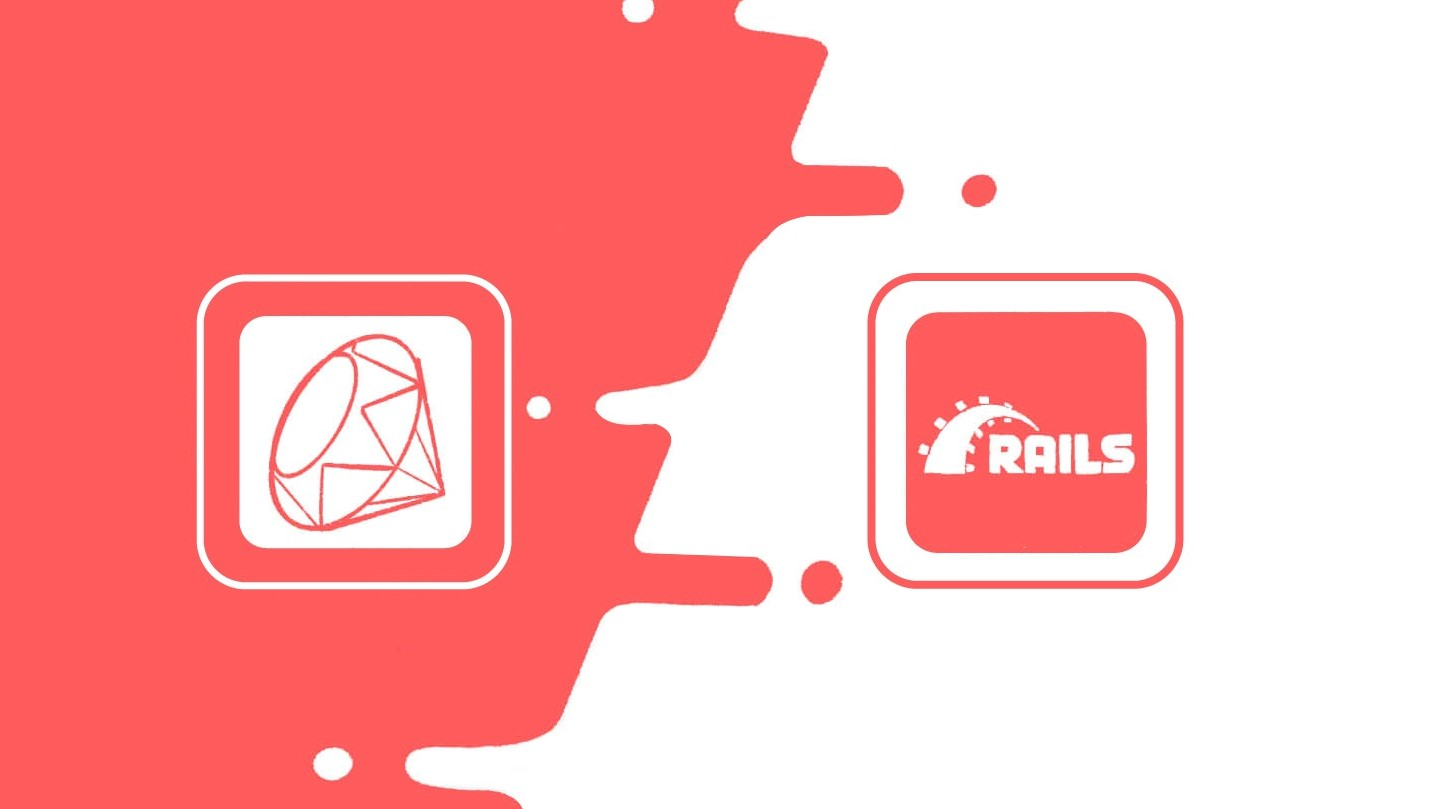
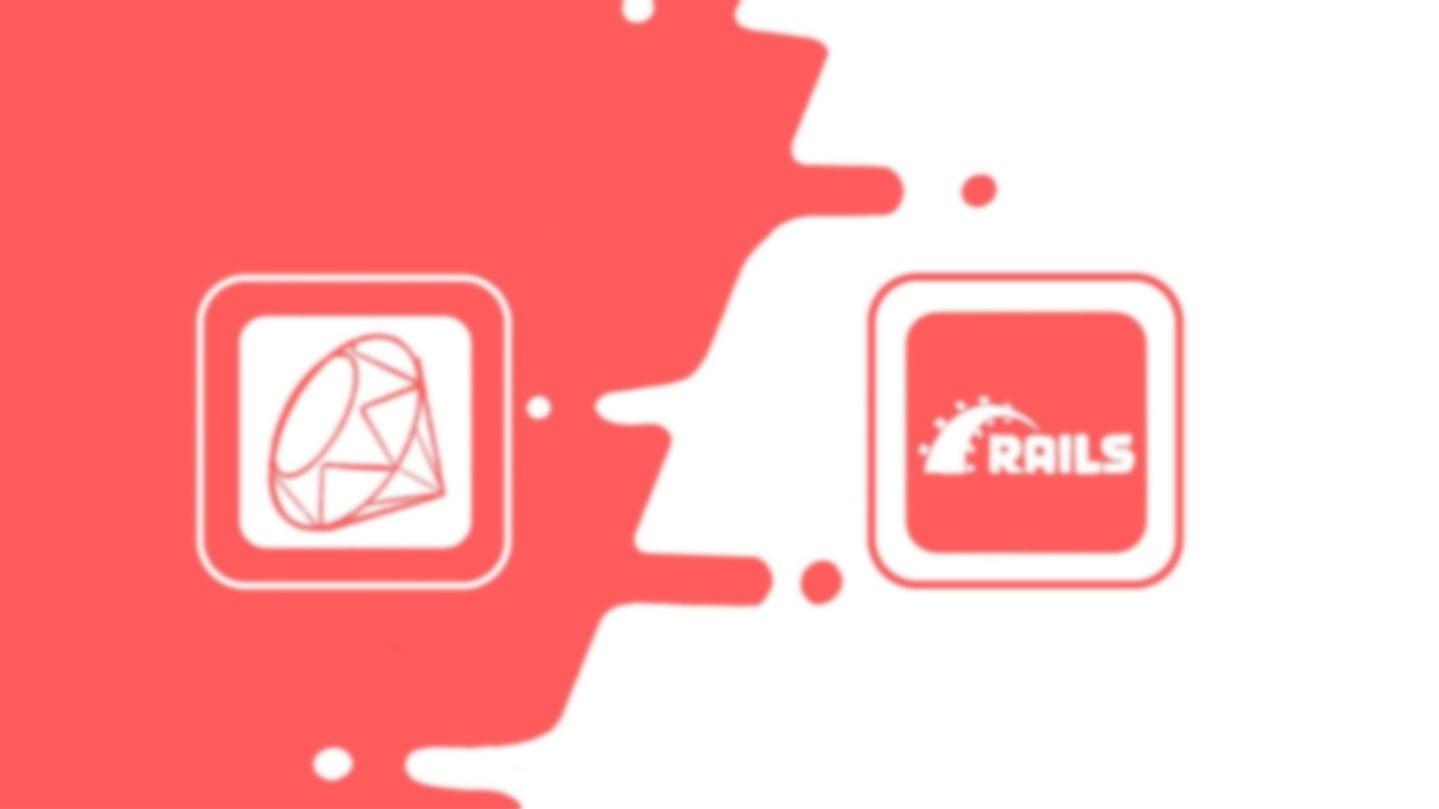
background index blur

diff --git a/style/style.css b/style/style.css
@@ -26,7 +26,7 @@
 
 .t >button{  /* style the button  */
   position:relative;  /*  position for the button */
-  left: 60px;
+  left: 70px;
   top: 35px;
   background: none;
   border: 2px solid;
@@ -143,12 +143,14 @@
 }
 @media screen and (max-width:1200px){
   .t{
-    background: url("../images/bg.jpg") ;
+    background: url("../images/bg2.jpg") ;
     background-size: cover;
     background-position: center;
     /* background-color: #203239; */
-    background-blend-mode: darken;
-
+  }
+  .text-ruby{
+    width: 70%;
+    height: auto;
   }
 }
 /* start of topic css */
